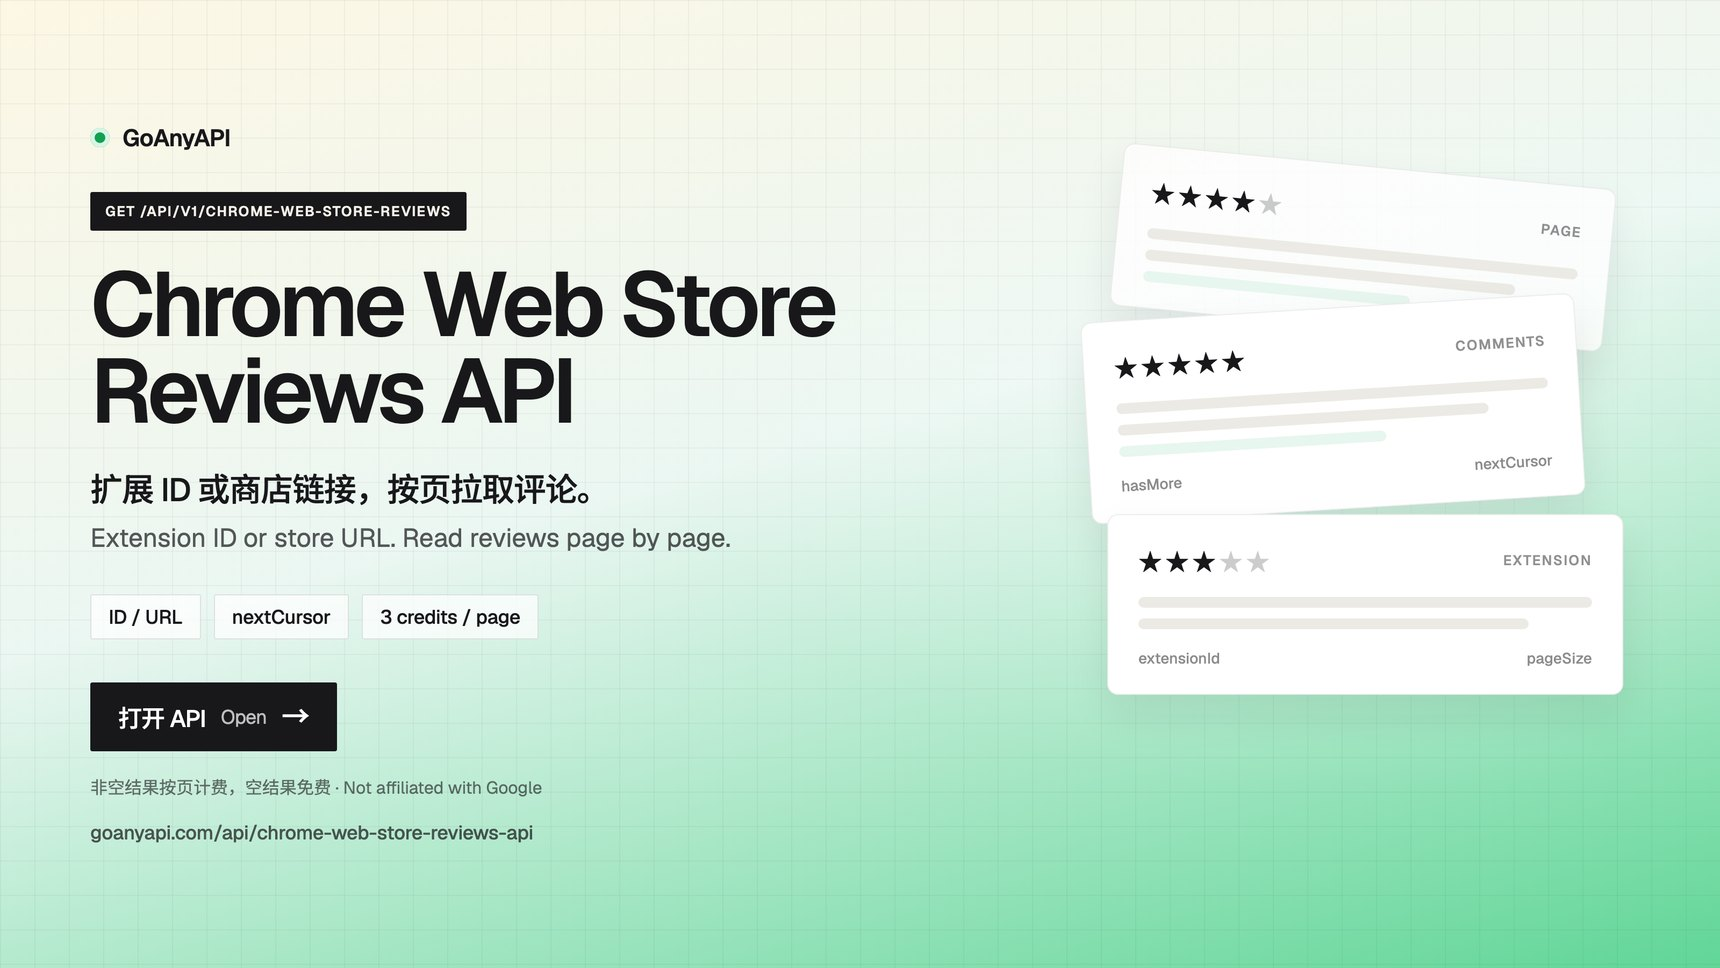
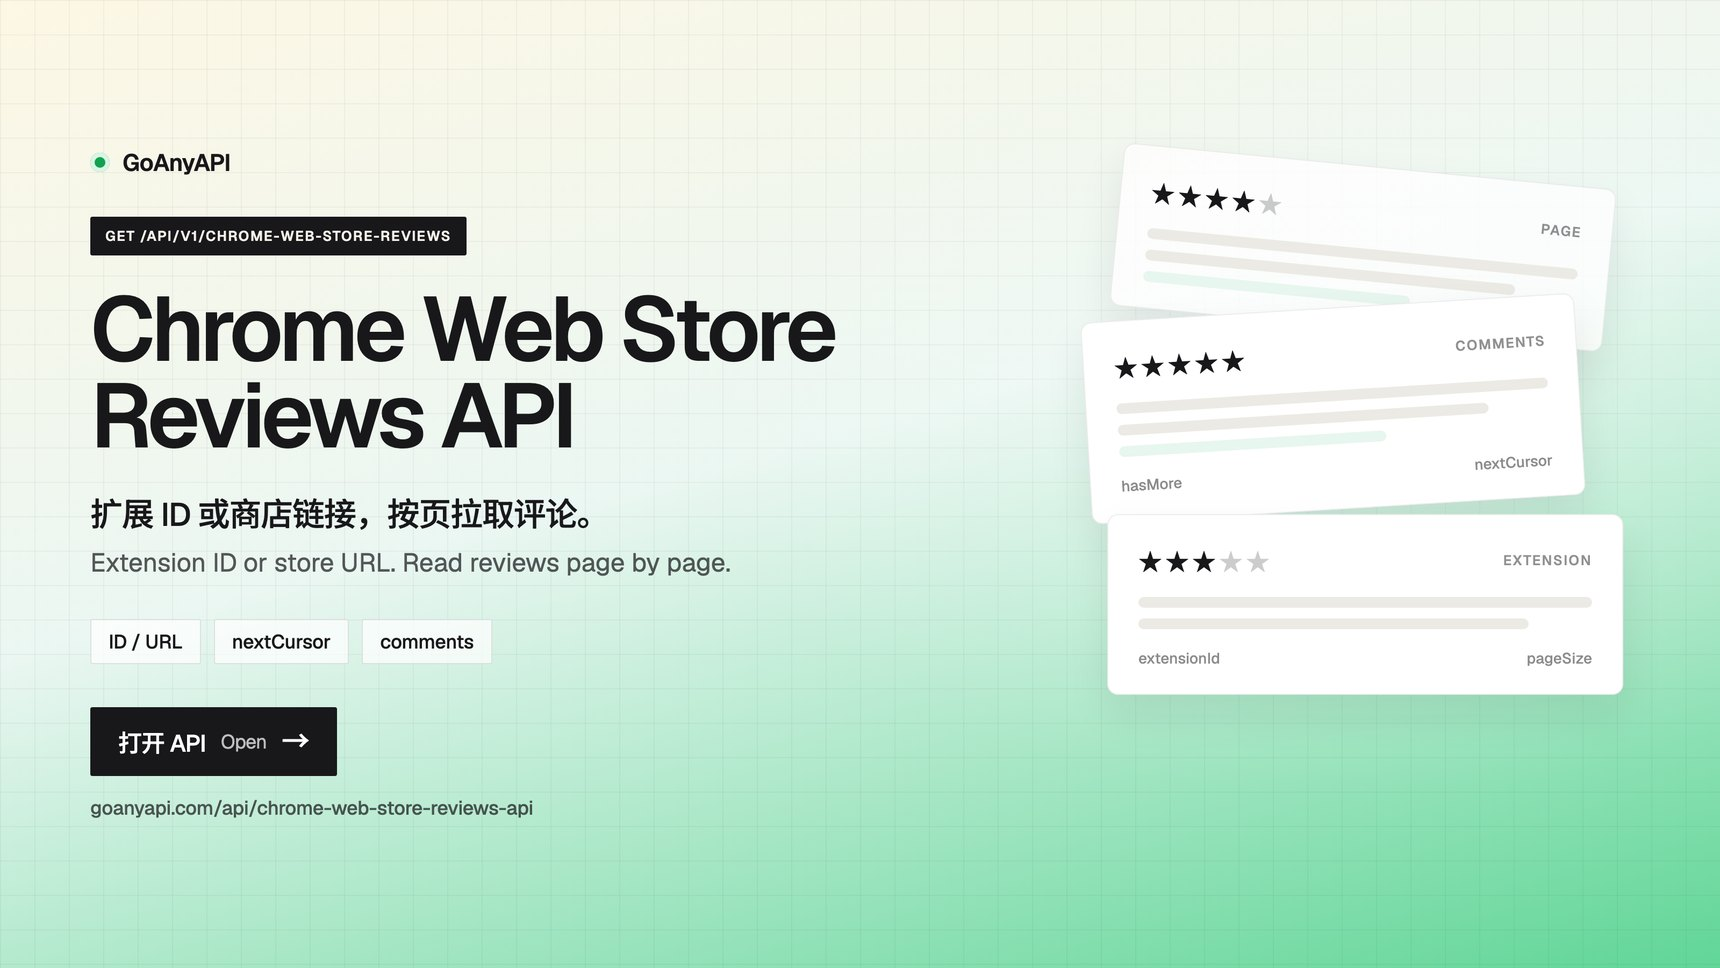
Keep the store-review copy focused on how to use it.

Changed region(s): [[0.0308, 0.124, 0.493, 0.8678]]

diff --git a/README.en.md b/README.en.md
@@ -210,9 +210,7 @@ Maintained by [Fantexi](https://x.com/fantexi997). Follow [@fantexi997](https://
 
 ### Review research
 
-To read how similar extensions are rated before you submit, use the [Chrome Web Store Reviews API](https://goanyapi.com/api/chrome-web-store-reviews-api). Pass an extension ID or a store URL, then page through `comments` with `nextCursor` and `hasMore`. Non-empty pages are billed (3 credits per successful request with the current configuration). Empty responses are free.
-
-GoAnyAPI is an independent service and is not affiliated with, endorsed by, or sponsored by Google.
+Before you submit, use the [Chrome Web Store Reviews API](https://goanyapi.com/api/chrome-web-store-reviews-api) to see how people actually rate similar extensions. Pass an extension ID or a store URL to get each page of `comments`. Follow `nextCursor` while `hasMore` is true.
 
 <a href="https://goanyapi.com/api/chrome-web-store-reviews-api">
 <img src="assets/cws-reviews-poster.jpg" alt="Chrome Web Store Reviews API: fetch reviews by extension ID or store URL" width="860">

diff --git a/README.md b/README.md
@@ -224,9 +224,7 @@ Skill 文档、脚本、GitHub Actions 和检查清单使用 [MIT License](LICEN
 
 ### 商店评论调研
 
-上架前想看同类扩展的真实评价，可以用 [Chrome Web Store Reviews API](https://goanyapi.com/api/chrome-web-store-reviews-api)。传入扩展 ID 或商店链接，按页取回 `comments`，再用 `nextCursor` 和 `hasMore` 翻页。非空结果按页计费（当前配置下每次成功请求 3 credits），空结果不计费。
-
-GoAnyAPI 是独立服务，与 Google 无隶属、背书或赞助关系。
+上架前调研同类扩展，可以用 [Chrome Web Store Reviews API](https://goanyapi.com/api/chrome-web-store-reviews-api) 看用户实际怎么评价。传入扩展 ID 或商店链接，按页取回 `comments`；还有下一页时跟上 `nextCursor`，`hasMore` 表示能不能继续翻。
 
 <a href="https://goanyapi.com/api/chrome-web-store-reviews-api">
 <img src="assets/cws-reviews-poster.jpg" alt="Chrome Web Store Reviews API：用扩展 ID 或商店链接按页拉取评论" width="860">
